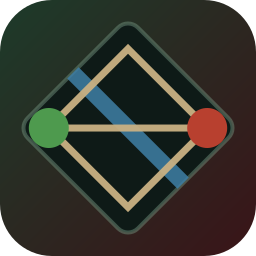
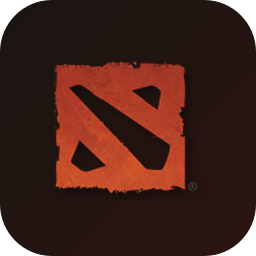
feat(art): the shelf tile is Valve's own emblem, not a drawing of a map
The tile was a hand-drawn SVG of a Dota-shaped map — three lanes, a
river, a base in each corner. Two things wrong with it: this pack does
not ship a map yet, so it was a picture of something that does not
exist; and a shelf tile is what a player looks at to answer "which game
is this", which a generic MOBA diagram cannot.

Valve publishes the logo as one wide image, the emblem stacked over the
"DOTA 2" wordmark. The wordmark is the half that loses — unreadable at
256px, and the tile already sits beside the pack's name — so the top
band is extracted and *trimmed to whatever the mark actually occupies*
rather than to hard-coded pixels that would silently mis-crop the day
Valve re-exports the file. The ® stays in the crop: a fan project
trimming a trademark symbol off someone else's logo is the wrong
instinct. The plate underneath is ours, at the same 52px radius the old
tile used, so the shelf's geometry does not shift.

Once the tile is Valve's art it belongs on the same provenance ledger as
the portraits, which is why `import-art.mjs` now owns the file and
`render-icons.mjs` is gone rather than repointed — its only tree was
this one logo. `art:check` re-hashes it offline with everything else.

Claude-Session: https://claude.ai/code/session_01U1wfNJ78TNE9N2dFKouSbK

diff --git a/README.md b/README.md
@@ -47,9 +47,8 @@ npm run verify
 | `npm run verify` | Everything CI runs. Do this before opening a PR |
 | `npm test` | The unit suite (`npx vitest run tests/Pudge_Q.test.ts` for one file) |
 | `npm run build` | Builds `dist/` and writes `dist/manifest.json` |
-| `npm run art:import` | Re-fetches every champion and ability image from its real source |
+| `npm run art:import` | Re-fetches every champion image, ability icon and the shelf logo from its real source |
 | `npm run art:check` | Offline: re-hashes the committed art against `assets/source-manifest.json` |
-| `npm run icons:render` / `icons:check` | Rasterises `tools/icons/pack/icon.svg` into `public/icon.png` |
 | `npm run check-seams` | The source-scan rules — `pack-core-boundary`, `pack-asset-key`, and the rest |
 
 Adding an ability is `npx moba2d-pack-add spell <Name> --champion <Hero> --slot <Slot>`, but note a **playable** champion's kit is full at four: core refuses to install a fifth. [`docs/PACK_AUTHORING.md`](https://github.com/HoangTran0410/moba2d-core/blob/main/docs/PACK_AUTHORING.md) in core is the whole guide, and [`docs/ADDING_SPELLS.md`](https://github.com/HoangTran0410/moba2d-core/blob/main/docs/ADDING_SPELLS.md) is the spell mechanism.
@@ -65,8 +64,8 @@ This is a non-commercial, unofficial fan project. It is **not affiliated with, a
 
 Dota 2, its heroes, their names, their ability names, and all the artwork in `assets/images/` are the property of Valve Corporation. This repository claims no ownership over any of it.
 
-**Every image here is fetched, not redrawn, and every one records where it came from.** `npm run art:import` pulls hero portraits and ability icons from Valve's own CDN — the same files the Dota 2 client and the official web profile serve — and writes `assets/source-manifest.json` with the URL and a content hash per file. `npm run art:check` re-hashes what is committed against that manifest offline, so the art and its provenance cannot drift apart unnoticed.
+**Every image here is fetched, not redrawn, and every one records where it came from.** `npm run art:import` pulls hero portraits, ability icons and the shelf logo from Valve's own CDN — the same files the Dota 2 client and the official web profile serve — and writes `assets/source-manifest.json` with the URL and a content hash per file. `npm run art:check` re-hashes what is committed against that manifest offline, so the art and its provenance cannot drift apart unnoticed.
 
 That art lives here rather than in the engine on purpose. Core carries no third-party material at all — it draws every pixel it ships, so it stays installable and redistributable on its own — and this repository is the half where a licensed roster belongs. The game's packs screen names this pack for what it contains, because a player deciding whether to install something has to know what is in it.
 
-The one original image in this repository is `tools/icons/pack/icon.svg`, the shelf logo, which is a drawing of a map and belongs to this project.
+The shelf logo was a hand-drawn SVG of a map until it became Valve's own emblem, cropped out of the logo Valve publishes and composited onto a plate of ours. It is on the provenance ledger with everything else: a tile is what a player looks at to answer "which game is this", and a drawing of a map this pack does not ship yet was the wrong answer to that question.
